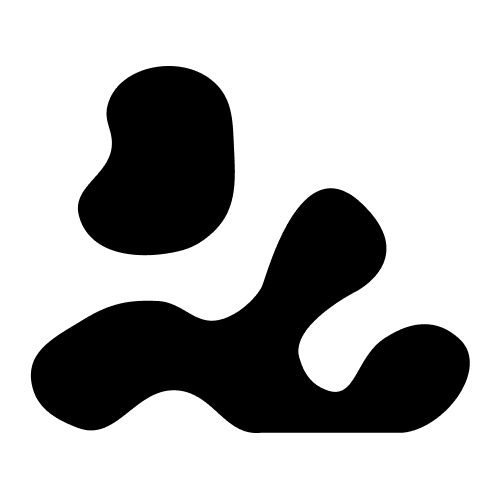
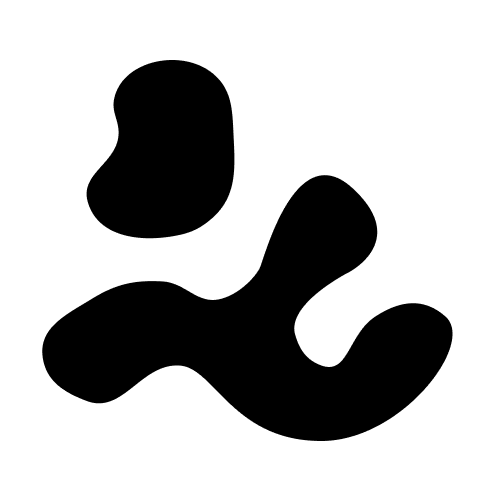
feat(web): update the Substance mark to the revised artwork
Same two treatments the previous version needed: fill becomes currentColor, since the
source art is black and would vanish on the dark ground, and the fixed width and height
attributes come off so the class sizes it.

The viewBox moves from 47x40 to 47x43, so the mark is now slightly less wide than tall
relative to before. It is still sized by height with w-auto, which keeps that change
invisible at the call site. Verified in the browser: it renders 21.9 x 20.0, a ratio of
1.093 against the viewBox's 47/43 = 1.093, so nothing is being stretched.

diff --git a/apps/web/components/substance-mark.tsx b/apps/web/components/substance-mark.tsx
@@ -4,15 +4,15 @@ import type { SVGProps } from "react"
  * The Substance mark.
  *
  * On currentColor rather than a fixed fill, so it inherits the theme like any other
- * icon here — the source art was black, which would have vanished on the dark ground.
+ * icon here — the source art is black, which would vanish on the dark ground.
  *
- * The artwork is 47×40, not square. Size it by height (h-4 w-auto) and let the width
+ * The artwork is 47x43, not square. Size it by height (h-5 w-auto) and let the width
  * follow; forcing it into a square box letterboxes it and renders it smaller than the
- * type it sits next to.
+ * type it sits beside.
  */
 export const SubstanceMark = (props: SVGProps<SVGSVGElement>) => (
-  <svg viewBox="0 0 47 40" fill="currentColor" aria-hidden="true" {...props}>
-    <path d="M20.0385 26.9894C22.2077 26.4883 24.0385 24.4894 24.5385 23.4894C25.0385 22.4894 28.5385 8.48936 35.0385 14.4894C41.5385 20.4894 34.5385 23.9894 34.5385 23.9894C34.5385 23.9894 27.5494 27.5274 28.5385 30.9894C29.0331 32.7203 29.8407 33.8909 31.5385 34.4894C34.5364 35.5461 34.5385 30.9894 37.5385 28.9894C40.5385 26.9894 43.2268 26.8878 45.5385 28.9894C48.9084 32.0529 44.0714 38.5487 39.5385 38.9894H24.5385C20.6374 39.4611 19.4573 34.78 15.5385 34.4894C11.1626 34.1648 9.14985 40.0228 5.03853 38.4894C2.45121 37.5244 0.387175 36.2287 0.0385338 33.4894C-0.381286 30.1908 2.7065 28.7319 5.53853 26.9894C8.28127 25.3018 10.3228 24.8171 13.5385 24.9894C16.1906 25.1314 17.4508 27.5871 20.0385 26.9894Z" />
+  <svg viewBox="0 0 47 43" fill="currentColor" aria-hidden="true" {...props}>
     <path d="M5.10626 15.9104C6.12071 19.806 10.6333 20.5581 14.6063 19.9104C16.5043 19.601 17.6529 19.1698 19.1063 17.9104C21.8631 15.5216 21.7915 12.5535 21.6063 8.91045C21.4495 5.82707 21.5433 3.30591 19.1063 1.41045C15.5915 -1.32322 8.97949 0.0442557 8.10626 4.41045C7.79752 5.95413 8.69608 6.83876 8.60626 8.41045C8.42183 11.6373 4.29171 12.7826 5.10626 15.9104Z" />
+    <path d="M20.0385 26.9894C22.2077 26.4883 24.0385 24.4894 24.5385 23.4894C25.0385 22.4894 28.5385 8.48936 35.0385 14.4894C41.5385 20.4894 34.5385 23.9894 34.5385 23.9894C34.5385 23.9894 27.5494 27.5274 28.5385 30.9894C29.0331 32.7203 29.8407 33.8909 31.5385 34.4894C34.5364 35.5461 34.5385 30.9894 37.5385 28.9894C40.5385 26.9894 43.2268 26.8878 45.5385 28.9894C48.9084 32.0529 40.5 43 31.5 43C21.5 43 19.4573 34.78 15.5385 34.4894C11.1626 34.1648 9.14985 40.0228 5.03853 38.4894C2.45121 37.5244 0.387175 36.2287 0.0385338 33.4894C-0.381286 30.1908 2.7065 28.7319 5.53853 26.9894C8.28127 25.3018 10.3228 24.8171 13.5385 24.9894C16.1906 25.1314 17.4508 27.5871 20.0385 26.9894Z" />
   </svg>
 )
